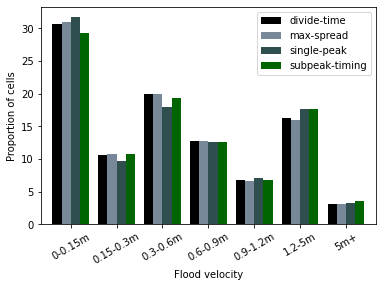
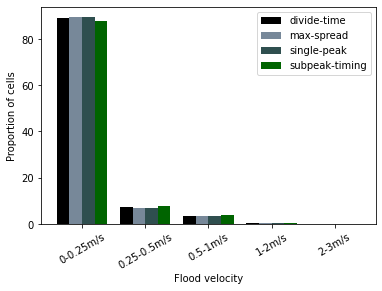
catrchment analysis stuff

diff --git a/CatchmentAnalysis/RunModelWithSyntheticRainfall/Processing_fromtiff.py b/CatchmentAnalysis/RunModelWithSyntheticRainfall/Processing_fromtiff.py
@@ -1,0 +1,157 @@
+import rasterio
+import numpy as np
+import pandas as pd
+import matplotlib.pyplot as plt
+from matplotlib import pyplot
+
+# Define filepath
+fp = r"C:\Users\gy17m2a\OneDrive - University of Leeds\PhD\DataAnalysis\FloodModelling\MeganModel\6hr_ms_u\6hr_maxspread_depth.Resampled.Terrain.tif"
+
+methods = {'dividetime':"6hr_dt",
+           'maxspread': "6hr_ms",
+           'singlepeak': "6hr_sp",
+           "subpeaktiming": "6hr_sp-t"}
+
+# whether to remove values < 0.1
+remove_little_values = True
+
+# Loop through methods and populate dataframes
+for variable in ["depth", "velocity"]:
+    counts_df = pd.DataFrame()
+    proportions_df = pd.DataFrame()
+    
+    for method_name, shortening in methods.items():    # Define filepath
+        print(method_name, shortening)
+        fp = r"C:\Users\gy17m2a\OneDrive - University of Leeds\PhD\DataAnalysis\FloodModelling\MeganModel\{}_u\6hr_{}_{}.Resampled.Terrain.tif".format(shortening, method_name, variable)
+        with rasterio.open(fp, 'r') as ds:
+           arr = ds.read()  # read all raster values
+        # Convert to arry
+        raster = np.array(arr)[0,:,:]
+        # Find the number of cells with each value, and convert to dataframe
+        unique, counts = np.unique(raster, return_counts=True)
+        df = pd.DataFrame({'values': unique, 'counts':counts})
+        # remove values below 0.1 if necessary
+        if remove_little_values == True:
+            df = df[df['values']>0.1]    
+            unique = unique[(unique>0.1)]
+        # Cut by depth bins
+        if variable == 'depth':
+            df['bins']= pd.cut(unique, bins=[0,0.1,0.15,0.30,0.60, 0.9, 1.2,5,99], right=False)
+        elif variable == 'velocity':
+            df['bins']= pd.cut(unique, bins=[0,0.25,0.50,1,2,3], right=False)
+        groups = df.groupby(['bins']).sum()
+        groups  = groups.reset_index()
+        # Find the sum
+        total_n_cells = groups ['counts'].sum()
+        # Find the number of cells in each group as a proportion of the total
+        groups['Proportion'] = round((groups['counts']/total_n_cells) *100,1)
+        # Add values to dataframes
+        counts_df[method_name] = groups['counts']
+        proportions_df[method_name] = groups['Proportion']
+
+    # Reset index to show the groups
+    counts_df.reset_index(inplace=True)
+    proportions_df.reset_index(inplace=True)
+
+    if variable == 'depth':
+        counts_df['index'] = ['0-0.1m', '0.1-0.15m', '0.15-0.3m', '0.3-0.6m', '0.6-0.9m', '0.9-1.2m', '1.2-5m', '5m+']
+        proportions_df['index'] = ['0-0.1m', '0.1-0.15m', '0.15-0.3m', '0.3-0.6m', '0.6-0.9m', '0.9-1.2m', '1.2-5m', '5m+']
+    elif variable == 'velocity':
+        counts_df['index'] = ['0-0.25m/s', '0.25-0.5m/s', '0.5-1m/s','1-2m/s', '2-3m/s']
+        proportions_df['index'] = ['0-0.25m/s', '0.25-0.5m/s', '0.5-1m/s','1-2m/s','2-3m/s']
+
+    # Set colors for plots
+    colors = ['black', 'lightslategrey', 'darkslategrey', 'darkgreen']
+    
+    # plot count bar chart
+    counts_df.plot(x='index',kind='bar', stacked=False, width=0.8, legend = True, color = colors)
+    plt.xticks(rotation=30)
+    plt.xlabel('Flood {}'.format(variable))
+    plt.ylabel('Number of cells')
+    
+    # plot proportions bar chart
+    proportions_df.plot(x='index', kind='bar', stacked=False, width=0.8, legend = True, color = colors)
+    plt.xticks(rotation=30)
+    plt.xlabel('Flood {}'.format(variable))
+    plt.ylabel('Proportion of cells')
+    
+src = rasterio.open(fp)
+pyplot.imshow(src.read(1), cmap='pink')    
+fp2 = r"C:\Users\gy17m2a\OneDrive - University of Leeds\PhD\DataAnalysis\FloodModelling\MeganModel\6hr_dt_u\6hr_dividetime_velocity.Resampled.Terrain.tif"
+src2 = rasterio.open(fp2)
+
+srcnew = src.read(1) - src2.read(1)
+pyplot.imshow(srcnew, cmap='pink')    
+import arcpy
+
+raster_path = 'C:/blablabla/raster_bla.tif'
+raster1 = arcpy.Raster(raster_path)
+raster_data = arcpy.RasterToNumPyArray(raster)
+
+import rasterio
+pyplot.imshow(src.read(1), cmap = 'terrain')
+
+
+arr_bldg = src.read(1)
+arr_elev = src2.read(1)
+arr_height = arr_elev - arr_bldg
+pyplot.imshow(msk, cmap='pink')   
+
+r = src.read(1, masked=True)
+r
+pyplot.imshow(src.read(1), cmap='pink')  
+
+
+source_raster_path = fp
+distination_raster_path = "fixed_example.tif"
+with rasterio.open(source_raster_path, "r+") as src:
+    src.nodata = np.nan # set the nodata value
+    profile = src.profile
+    profile.update(
+            dtype=rasterio.uint8,
+            compress='lzw'
+    )
+
+    with rasterio.open(distination_raster_path, 'w',  **profile) as dst:
+        for i in range(1, src.count + 1):
+            band = src.read(i)
+            # band = np.where(band!=1,0,band) # if value is not equal to 1 assign no data value i.e. 0
+            band = np.where(band==0,0,band) # for completeness
+            dst.write(band,i)
+         
+#####################################
+import os
+import numpy as np
+import matplotlib.pyplot as plt
+import rasterio as rio
+from rasterio.plot import show
+from rasterio.plot import show_hist
+#from shapely.geometry import Polygon, mapping
+from rasterio.mask import mask
+import earthpy as et
+import earthpy.spatial as es
+import earthpy.plot as ep
+
+from matplotlib.colors import ListedColormap
+import matplotlib.colors as colors
+
+
+with rio.open(fp2) as src:
+    lidar_dem_im2 = src.read(1, masked=True)
+    sjer_ext = rio.plot.plotting_extent(src)
+
+with rio.open(fp) as src:
+    lidar_dem_im = src.read(1, masked=True)
+    sjer_ext = rio.plot.plotting_extent(src)
+
+
+lidar_chm = lidar_dem_im2 - lidar_dem_im
+ep.plot_bands(lidar_chm,
+              cmap='viridis',
+              title="Lidar Canopy Height Model (CHM)\n Tree Height For Your Field Site From Remote Sensing Data!")
+plt.show()
+
+
+import arcpy
+from arcpy.sa import *
+f1 = arcpy.Raster("C:/Users/gy17m2a/OneDrive - University of Leeds/PhD/DataAnalysis/FloodModelling/MeganModel/6hr_dt_u/6hr_dividetime_velocity.Resampled.Terrain.tif")

diff --git a/CatchmentAnalysis/RunModelWithSyntheticRainfall/Processing.py b/CatchmentAnalysis/RunModelWithSyntheticRainfall/Processing.py
@@ -6,10 +6,10 @@ import matplotlib.pyplot as plt
 os.chdir("C:/Users/gy17m2a/OneDrive - University of Leeds/PhD/DataAnalysis/FloodModelling/MeganModel/Calculated Layers")
 
 # Create dictionary mapping method name to csv file containing values
-methods = {'divide-time':"6hr_dt_u_uniquevaluesreport.csv",
-           'max-spread': "6hr_ms_u_uniquevaluesreport.csv",
-           'single-peak': "6hr_sp_u_uniquevaluesreport.csv",
-           "subpeak-timing": "6hr_sp-t_u_uniquevaluesreport.csv"}
+methods = {'divide-time':"6hr_dt_u_uniquevaluesreport_depth.csv",
+           'max-spread': "6hr_ms_u_uniquevaluesreport_depth.csv",
+           'single-peak': "6hr_sp_u_uniquevaluesreport_depth.csv",
+           "subpeak-timing": "6hr_sp-t_u_uniquevaluesreport_depth.csv"}
 
 counts_df = pd.DataFrame()
 proportions_df = pd.DataFrame()
@@ -31,9 +31,9 @@ for method_name, file_location in methods.items():
     proportions_df[method_name] = depth_groups['Proportion']
 
 counts_df.reset_index(inplace=True)
-counts_df['index'] = ['0-0.15m', '0.15-0.3m', '0.3-0.6m', '0.6-0.9m', '0.9-1.2m', '1.2-5m', '5m+']
+counts_df['index'] = ['0.1-0.15m', '0.15-0.3m', '0.3-0.6m', '0.6-0.9m', '0.9-1.2m', '1.2-5m', '5m+']
 proportions_df.reset_index(inplace=True)
-proportions_df['index'] = ['0-0.15m', '0.15-0.3m', '0.3-0.6m', '0.6-0.9m', '0.9-1.2m', '1.2-5m', '5m+']
+proportions_df['index'] = ['0.1-0.15m', '0.15-0.3m', '0.3-0.6m', '0.6-0.9m', '0.9-1.2m', '1.2-5m', '5m+']
 
 # Set colors for plots
 colors = ['black', 'lightslategrey', 'darkslategrey', 'darkgreen']
@@ -57,7 +57,6 @@ totals_df.drop(columns = 'index', inplace = True)
 
 # PLot
 y_pos = np.arange(len(methods.keys()))
-
 # Create bars
 plt.bar(y_pos, totals_df.iloc[[0]].values.tolist()[0], color=colors,
         width = 0.9)
@@ -109,7 +108,7 @@ for method_name, file_location in methods.items():
     # Read in file
     method_file = pd.read_csv(file_location, encoding = 'unicode_escape')
     # Cut by depth bins
-    method_file['depth_range']= pd.cut(method_file.value, bins=[0,0.25,0.50,2,3,10,700], right=False)
+    method_file['depth_range']= pd.cut(method_file.value, bins=[0,0.25,0.50,1,2,3], right=False)
     depth_groups = method_file.groupby(['depth_range']).sum()
     depth_groups = depth_groups.reset_index()
     # Find the sum
@@ -121,9 +120,9 @@ for method_name, file_location in methods.items():
     proportions_df[method_name] = depth_groups['Proportion']
 
 counts_df.reset_index(inplace=True)
-counts_df['index'] = ['0-0.25m/s', '0.25-0.5m/s', '0.5-2m/s', '2-3m/s','3-10m/s','10-700m/s']
+counts_df['index'] = ['0-0.25m/s', '0.25-0.5m/s', '0.5-1m/s','1-2m/s', '2-3m/s']
 proportions_df.reset_index(inplace=True)
-proportions_df['index'] = ['0-0.25m/s', '0.25-0.5m/s', '0.5-2m/s','2-3m/s','3-10m/s','10-700m/s']
+proportions_df['index'] = ['0-0.25m/s', '0.25-0.5m/s', '0.5-1m/s','1-2m/s','2-3m/s']
 
 # Set colors for plots
 colors = ['black', 'lightslategrey', 'darkslategrey', 'darkgreen']
@@ -131,13 +130,13 @@ colors = ['black', 'lightslategrey', 'darkslategrey', 'darkgreen']
 # plot count bar chart
 counts_df.plot(x='index',kind='bar', stacked=False, width=0.8, legend = True, color = colors)
 plt.xticks(rotation=30)
-plt.xlabel('Flood depth')
+plt.xlabel('Flood Velocity')
 plt.ylabel('Number of cells')
 
 # plot proportions bar chart
 proportions_df.plot(x='index', kind='bar', stacked=False, width=0.8, legend = True, color = colors)
 plt.xticks(rotation=30)
-plt.xlabel('Flood depth')
+plt.xlabel('Flood velocity')
 plt.ylabel('Proportion of cells')
 
 

diff --git a/CatchmentAnalysis/CreateSyntheticRainfallEvents/CreateSyntheticRainfallEvents.py b/CatchmentAnalysis/CreateSyntheticRainfallEvents/CreateSyntheticRainfallEvents.py
@@ -188,8 +188,9 @@ durations = ['1h', '3h', '6h']
 
 # For each method produce a dataframe containing precipitation values for each minute
 # and save these to file
-for duration in durations:
+for duration in ['6h']:
     for method in methods:
+        print(method, duration)
         
         ## PARAMETER SETTINGS
         N_subpeaks= 3
@@ -228,7 +229,9 @@ for duration in durations:
         
         # Plot
         #pdf_plotter_all_rates()
-    
+        
+        print(accum_df['Rate (mm/min)'].max())
+        
 ## Antecedent conditions
 dates = []
 for i in[3,2,1]:
